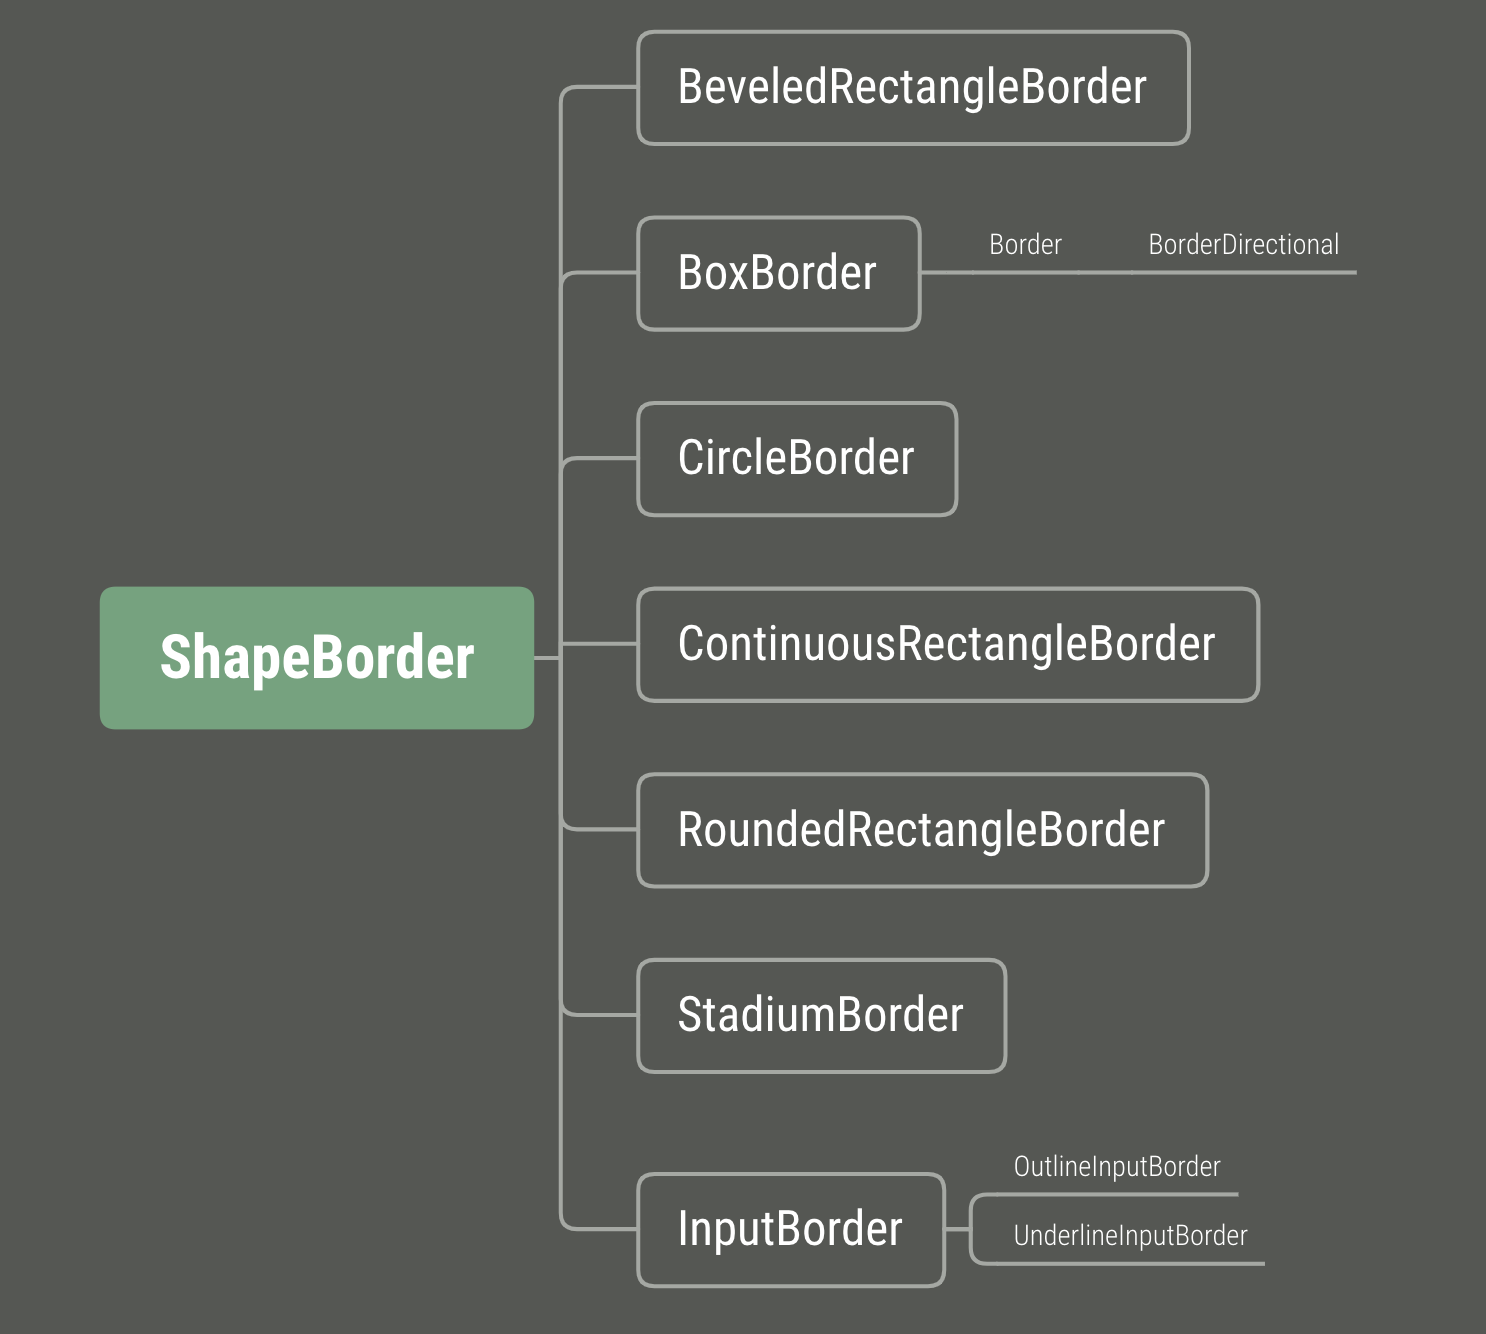
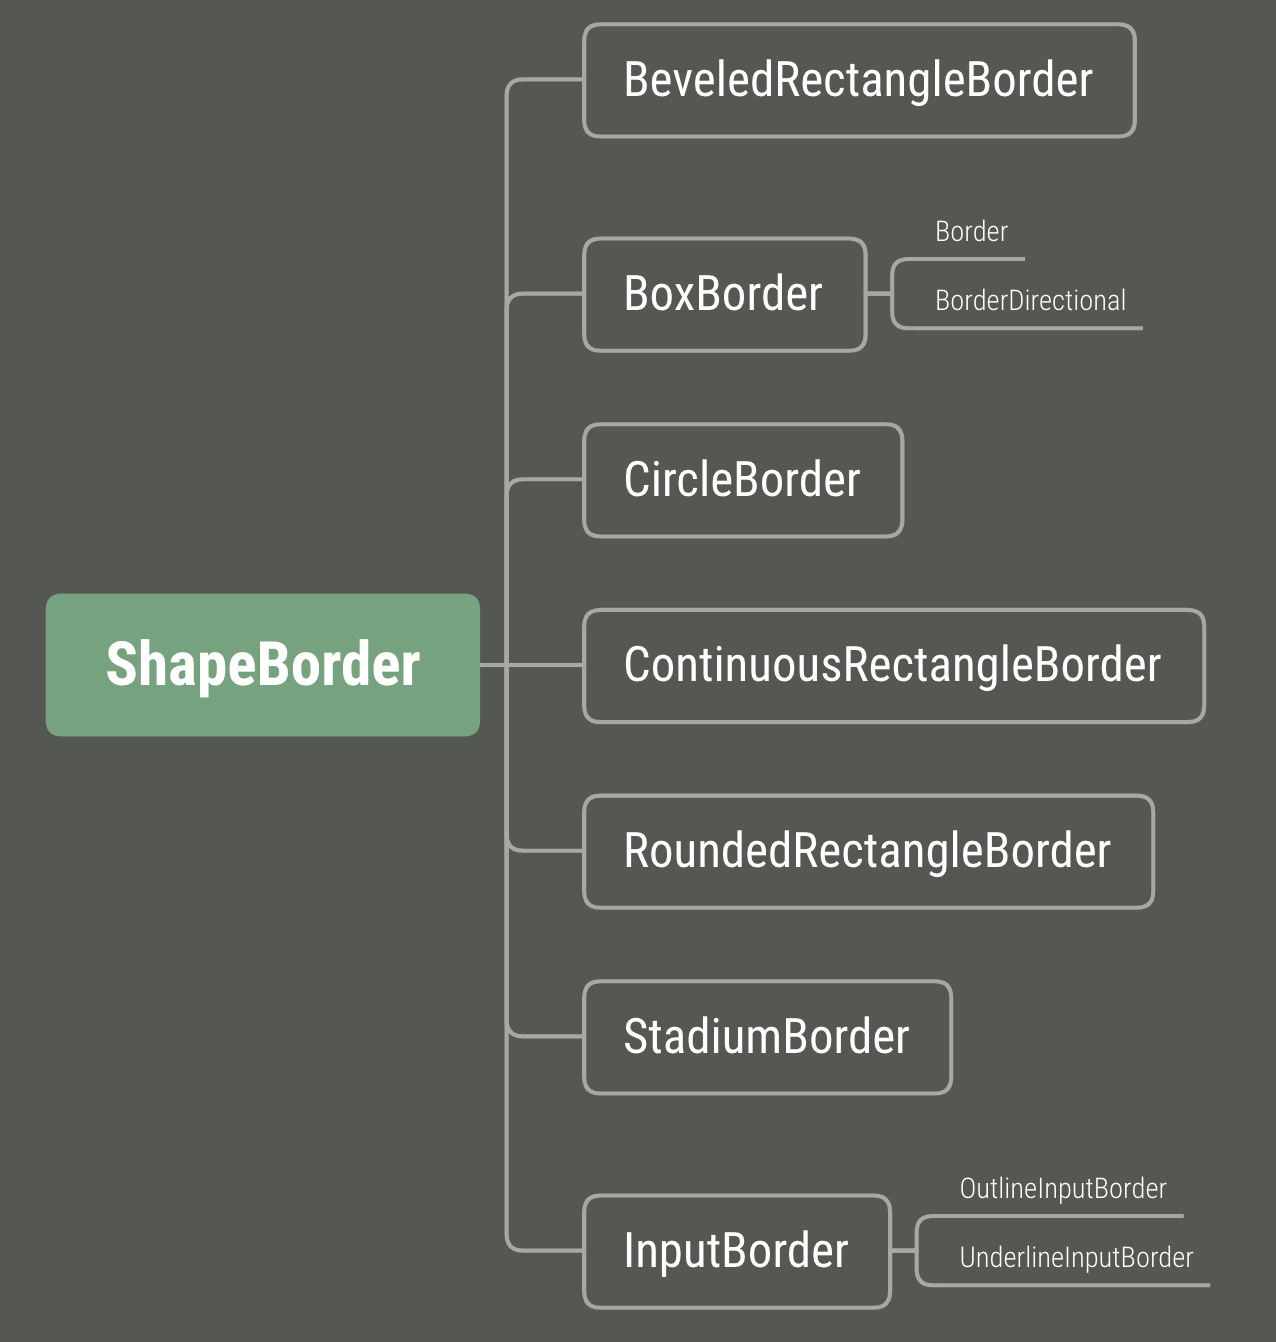
Site updated: 2020-07-12 22:45:13

diff --git a/posts/c5552f91/index.html b/posts/c5552f91/index.html
@@ -79,16 +79,17 @@
 
 
 
-<meta name="description" content="简介ShapeBorder 用于设置形状和轮廓，比如圆形，矩形，圆角矩形等。常用于 Container 中。 继承结构如下：  ShapeBorder【abstract】 BeveledRectangleBorder BoxBorder【abstract】 Border【abstract】 BorderDirectional     CircleBorder ContinuousRectangle">
+<meta name="description" content="简介ShapeBorder 用于设置形状和轮廓，比如圆形，矩形，圆角矩形等。常用于 Container 中。 继承结构如下：  ShapeBorder【abstract】 BeveledRectangleBorder BoxBorder【abstract】 Border BorderDirectional   CircleBorder ContinuousRectangleBorder Round">
 <meta name="keywords" content="效率">
 <meta property="og:type" content="article">
 <meta property="og:title" content="Flutter ShapeBorder 使用手册">
 <meta property="og:url" content="https://blog.wangruofeng007.com/posts/c5552f91/index.html">
 <meta property="og:site_name" content="王若风的技术博客">
-<meta property="og:description" content="简介ShapeBorder 用于设置形状和轮廓，比如圆形，矩形，圆角矩形等。常用于 Container 中。 继承结构如下：  ShapeBorder【abstract】 BeveledRectangleBorder BoxBorder【abstract】 Border【abstract】 BorderDirectional     CircleBorder ContinuousRectangle">
+<meta property="og:description" content="简介ShapeBorder 用于设置形状和轮廓，比如圆形，矩形，圆角矩形等。常用于 Container 中。 继承结构如下：  ShapeBorder【abstract】 BeveledRectangleBorder BoxBorder【abstract】 Border BorderDirectional   CircleBorder ContinuousRectangleBorder Round">
 <meta property="og:locale" content="zh-Hans">
 <meta property="og:image" content="https://blog.wangruofeng007.com/images/flutter_shape_border/ShapeBorder子类继承关系图.png">
 <meta property="og:image" content="https://blog.wangruofeng007.com/images/flutter_shape_border/beveled_rectangle_border.png">
+<meta property="og:image" content="https://blog.wangruofeng007.com/images/flutter_shape_border/border.png">
 <meta property="og:image" content="https://blog.wangruofeng007.com/images/flutter_shape_border/border_directional_01.png">
 <meta property="og:image" content="https://blog.wangruofeng007.com/images/flutter_shape_border/border_directional_02.png">
 <meta property="og:image" content="https://blog.wangruofeng007.com/images/flutter_shape_border/circle_border_01.jpg">
@@ -99,10 +100,10 @@
 <meta property="og:image" content="https://blog.wangruofeng007.com/images/flutter_shape_border/stadiu_border_01.png">
 <meta property="og:image" content="https://blog.wangruofeng007.com/images/flutter_shape_border/outlineInput_borde.png">
 <meta property="og:image" content="https://blog.wangruofeng007.com/images/flutter_shape_border/underlineInput_border.png">
-<meta property="og:updated_time" content="2020-07-12T11:16:16.320Z">
+<meta property="og:updated_time" content="2020-07-12T14:43:15.985Z">
 <meta name="twitter:card" content="summary">
 <meta name="twitter:title" content="Flutter ShapeBorder 使用手册">
-<meta name="twitter:description" content="简介ShapeBorder 用于设置形状和轮廓，比如圆形，矩形，圆角矩形等。常用于 Container 中。 继承结构如下：  ShapeBorder【abstract】 BeveledRectangleBorder BoxBorder【abstract】 Border【abstract】 BorderDirectional     CircleBorder ContinuousRectangle">
+<meta name="twitter:description" content="简介ShapeBorder 用于设置形状和轮廓，比如圆形，矩形，圆角矩形等。常用于 Container 中。 继承结构如下：  ShapeBorder【abstract】 BeveledRectangleBorder BoxBorder【abstract】 Border BorderDirectional   CircleBorder ContinuousRectangleBorder Round">
 <meta name="twitter:image" content="https://blog.wangruofeng007.com/images/flutter_shape_border/ShapeBorder子类继承关系图.png">
 
 
@@ -402,7 +403,7 @@
                   <span class="post-meta-item-text">字数统计&#58;</span>
                 
                 <span title="字数统计">
-                  850
+                  932
                 </span>
               
 
@@ -418,7 +419,7 @@
                   <span class="post-meta-item-text">阅读时长 &asymp;</span>
                 
                 <span title="阅读时长">
-                  4
+                  5
                 </span>
               
             </div>
@@ -445,10 +446,8 @@
 <li>ShapeBorder【abstract】<ul>
 <li>BeveledRectangleBorder</li>
 <li>BoxBorder【abstract】<ul>
-<li>Border【abstract】<ul>
+<li>Border</li>
 <li>BorderDirectional</li>
-</ul>
-</li>
 </ul>
 </li>
 <li>CircleBorder</li>
@@ -463,7 +462,7 @@
 </ul>
 </li>
 </ul>
-<p>其中 ShapeBorder、BoxBorder、Border、InputBorder 是抽象父类。InputBorder 通常用于输入框相关的。</p>
+<p>其中 ShapeBorder、BoxBorder、InputBorder 是抽象父类。InputBorder 通常用于输入框相关的。</p>
 <p>类的关系图</p>
 <p><img src="/images/flutter_shape_border/ShapeBorder子类继承关系图.png" alt="ShapeBorder子类继承关系图"></p>
 <h2 id="BeveledRectangleBorder"><a href="#BeveledRectangleBorder" class="headerlink" title="BeveledRectangleBorder"></a>BeveledRectangleBorder</h2><p>斜面圆角矩形</p>
@@ -472,17 +471,22 @@
 <figure class="highlight dart"><table><tr><td class="gutter"><pre><span class="line">1</span><br><span class="line">2</span><br><span class="line">3</span><br><span class="line">4</span><br><span class="line">5</span><br><span class="line">6</span><br><span class="line">7</span><br><span class="line">8</span><br><span class="line">9</span><br><span class="line">10</span><br><span class="line">11</span><br><span class="line">12</span><br><span class="line">13</span><br><span class="line">14</span><br><span class="line">15</span><br><span class="line">16</span><br><span class="line">17</span><br><span class="line">18</span><br><span class="line">19</span><br><span class="line">20</span><br><span class="line">21</span><br><span class="line">22</span><br><span class="line">23</span><br></pre></td><td class="code"><pre><span class="line">Widget _beveledRectangleBorder() &#123;</span><br><span class="line">  <span class="keyword">return</span> Center(</span><br><span class="line">    child: Container(</span><br><span class="line">      width: <span class="number">240</span>,</span><br><span class="line">      height: <span class="number">120</span>,</span><br><span class="line">      margin: EdgeInsets.all(<span class="number">16</span>),</span><br><span class="line">      decoration: ShapeDecoration(</span><br><span class="line">        image: DecorationImage(</span><br><span class="line">          image: AssetImage(<span class="string">'lib/assets/img_flutter.png'</span>),</span><br><span class="line">          fit: BoxFit.cover,</span><br><span class="line">        ),</span><br><span class="line">        shape: BeveledRectangleBorder(</span><br><span class="line">          borderRadius: BorderRadius.circular(<span class="number">20</span>),</span><br><span class="line">          side: BorderSide(</span><br><span class="line">            width: <span class="number">2</span>,</span><br><span class="line">            color: Colors.blue,</span><br><span class="line">            style: BorderStyle.solid,</span><br><span class="line">          ),</span><br><span class="line">        ),</span><br><span class="line">      ),</span><br><span class="line">    ),</span><br><span class="line">  );</span><br><span class="line">&#125;</span><br></pre></td></tr></table></figure>
 <p>效果如下：</p>
 <p><img src="/images/flutter_shape_border/beveled_rectangle_border.png" alt="beveled_rectangle_border"></p>
-<h2 id="BoxBorder-amp-Border"><a href="#BoxBorder-amp-Border" class="headerlink" title="BoxBorder &amp; Border"></a>BoxBorder &amp; Border</h2><p>这个2个类都是抽象类</p>
+<h2 id="BoxBorder"><a href="#BoxBorder" class="headerlink" title="BoxBorder"></a>BoxBorder</h2><p>BoxBorder主要掌管边线方面的事，自身是abstract，不能直接用</p>
 <p>BoxBorder官方说明</p>
 <blockquote>
 <p> Base class for box borders that can paint as rectangles, circles, or rounded rectangles.</p>
 </blockquote>
+<h3 id="Border"><a href="#Border" class="headerlink" title="Border"></a>Border</h3><p>继承关系:</p>
+<p><code>Border &gt; BoxBorder &gt; ShapeBorder</code></p>
 <p>Border官方说明</p>
 <blockquote>
 <p>A border of a box, comprised of four sides: top, right, bottom, left.</p>
 </blockquote>
+<figure class="highlight dart"><table><tr><td class="gutter"><pre><span class="line">1</span><br><span class="line">2</span><br><span class="line">3</span><br><span class="line">4</span><br><span class="line">5</span><br><span class="line">6</span><br><span class="line">7</span><br><span class="line">8</span><br><span class="line">9</span><br><span class="line">10</span><br><span class="line">11</span><br><span class="line">12</span><br><span class="line">13</span><br><span class="line">14</span><br><span class="line">15</span><br><span class="line">16</span><br><span class="line">17</span><br><span class="line">18</span><br><span class="line">19</span><br><span class="line">20</span><br><span class="line">21</span><br></pre></td><td class="code"><pre><span class="line">Widget _border() &#123;</span><br><span class="line">  <span class="keyword">return</span> Center(</span><br><span class="line">    child: Container(</span><br><span class="line">      margin: EdgeInsets.all(<span class="number">16</span>),</span><br><span class="line">      padding: EdgeInsets.all(<span class="number">16</span>),</span><br><span class="line">      decoration: ShapeDecoration(</span><br><span class="line">        color: Colors.orange,</span><br><span class="line">        shape: Border(</span><br><span class="line">          top: BorderSide(width: <span class="number">6.0</span>, color: Colors.black12),</span><br><span class="line">          left: BorderSide(width: <span class="number">6.0</span>, color: Colors.black12),</span><br><span class="line">          right: BorderSide(width: <span class="number">6.0</span>, color: Colors.black26),</span><br><span class="line">          bottom: BorderSide(width: <span class="number">6.0</span>, color: Colors.black26),</span><br><span class="line">        ),</span><br><span class="line">      ),</span><br><span class="line">      child: Text(</span><br><span class="line">        <span class="string">"Border"</span>,</span><br><span class="line">        style: TextStyle(color: Colors.white, fontSize: <span class="number">20</span>),</span><br><span class="line">      ),</span><br><span class="line">    ),</span><br><span class="line">  );</span><br><span class="line">&#125;</span><br></pre></td></tr></table></figure>
+<p>效果图：</p>
+<p><img src="/images/flutter_shape_border/border.png" alt="border"></p>
 <h3 id="BorderDirectional"><a href="#BorderDirectional" class="headerlink" title="BorderDirectional"></a>BorderDirectional</h3><p>继承关系:</p>
-<p> <code>BorderDirectional &gt; Border &gt; BoxBorder &gt; ShapeBorder</code></p>
+<p> <code>BorderDirectional &gt; BoxBorder &gt; ShapeBorder</code></p>
 <p><code>BorderDirectional</code> 通过 <code>top</code>,<code>bottom</code>,<code>start</code>,<code>end</code>分别控制上下左右的边线<br>边线对象<code>BorderSide</code></p>
 <figure class="highlight dart"><table><tr><td class="gutter"><pre><span class="line">1</span><br><span class="line">2</span><br><span class="line">3</span><br><span class="line">4</span><br><span class="line">5</span><br><span class="line">6</span><br><span class="line">7</span><br><span class="line">8</span><br><span class="line">9</span><br><span class="line">10</span><br><span class="line">11</span><br><span class="line">12</span><br><span class="line">13</span><br><span class="line">14</span><br><span class="line">15</span><br><span class="line">16</span><br><span class="line">17</span><br><span class="line">18</span><br><span class="line">19</span><br><span class="line">20</span><br><span class="line">21</span><br><span class="line">22</span><br><span class="line">23</span><br><span class="line">24</span><br><span class="line">25</span><br></pre></td><td class="code"><pre><span class="line">Widget _borderDirectional() &#123;</span><br><span class="line">  <span class="keyword">return</span> Center(</span><br><span class="line">    child: Container(</span><br><span class="line">      width: <span class="number">240</span>,</span><br><span class="line">      height: <span class="number">120</span>,</span><br><span class="line">      margin: EdgeInsets.all(<span class="number">16</span>),</span><br><span class="line">      decoration: ShapeDecoration(</span><br><span class="line">        image: DecorationImage(</span><br><span class="line">          image: AssetImage(<span class="string">'lib/assets/img_flutter.png'</span>),</span><br><span class="line">          fit: BoxFit.cover,</span><br><span class="line">        ),</span><br><span class="line">        shape: BorderDirectional(</span><br><span class="line">          start: BorderSide(color: Colors.black, width: <span class="number">15</span>),</span><br><span class="line">          end: BorderSide(color: Colors.black, width: <span class="number">15</span>),</span><br><span class="line">          top: BorderSide(</span><br><span class="line">            color: Colors.black,</span><br><span class="line">          ),</span><br><span class="line">          bottom: BorderSide(</span><br><span class="line">            color: Colors.black,</span><br><span class="line">          ),</span><br><span class="line">        ),</span><br><span class="line">      ),</span><br><span class="line">    ),</span><br><span class="line">  );</span><br><span class="line">&#125;</span><br></pre></td></tr></table></figure>
 <p>效果如下：</p>
@@ -767,7 +771,7 @@
             
 
             
-              <div class="post-toc-content"><ol class="nav"><li class="nav-item nav-level-2"><a class="nav-link" href="#简介"><span class="nav-number">1.</span> <span class="nav-text">简介</span></a></li><li class="nav-item nav-level-2"><a class="nav-link" href="#BeveledRectangleBorder"><span class="nav-number">2.</span> <span class="nav-text">BeveledRectangleBorder</span></a></li><li class="nav-item nav-level-2"><a class="nav-link" href="#BoxBorder-amp-Border"><span class="nav-number">3.</span> <span class="nav-text">BoxBorder &amp; Border</span></a><ol class="nav-child"><li class="nav-item nav-level-3"><a class="nav-link" href="#BorderDirectional"><span class="nav-number">3.1.</span> <span class="nav-text">BorderDirectional</span></a></li></ol></li><li class="nav-item nav-level-2"><a class="nav-link" href="#CircleBorder"><span class="nav-number">4.</span> <span class="nav-text">CircleBorder</span></a></li><li class="nav-item nav-level-2"><a class="nav-link" href="#ContinuousRectangleBorder"><span class="nav-number">5.</span> <span class="nav-text">ContinuousRectangleBorder</span></a></li><li class="nav-item nav-level-2"><a class="nav-link" href="#RoundedRectangleBorder"><span class="nav-number">6.</span> <span class="nav-text">RoundedRectangleBorder</span></a></li><li class="nav-item nav-level-2"><a class="nav-link" href="#StadiumBorder"><span class="nav-number">7.</span> <span class="nav-text">StadiumBorder</span></a></li><li class="nav-item nav-level-2"><a class="nav-link" href="#InputBorder"><span class="nav-number">8.</span> <span class="nav-text">InputBorder</span></a><ol class="nav-child"><li class="nav-item nav-level-3"><a class="nav-link" href="#OutlineInputBorder"><span class="nav-number">8.1.</span> <span class="nav-text">OutlineInputBorder</span></a></li><li class="nav-item nav-level-3"><a class="nav-link" href="#UnderlineInputBorder"><span class="nav-number">8.2.</span> <span class="nav-text">UnderlineInputBorder</span></a></li></ol></li></ol></div>
+              <div class="post-toc-content"><ol class="nav"><li class="nav-item nav-level-2"><a class="nav-link" href="#简介"><span class="nav-number">1.</span> <span class="nav-text">简介</span></a></li><li class="nav-item nav-level-2"><a class="nav-link" href="#BeveledRectangleBorder"><span class="nav-number">2.</span> <span class="nav-text">BeveledRectangleBorder</span></a></li><li class="nav-item nav-level-2"><a class="nav-link" href="#BoxBorder"><span class="nav-number">3.</span> <span class="nav-text">BoxBorder</span></a><ol class="nav-child"><li class="nav-item nav-level-3"><a class="nav-link" href="#Border"><span class="nav-number">3.1.</span> <span class="nav-text">Border</span></a></li><li class="nav-item nav-level-3"><a class="nav-link" href="#BorderDirectional"><span class="nav-number">3.2.</span> <span class="nav-text">BorderDirectional</span></a></li></ol></li><li class="nav-item nav-level-2"><a class="nav-link" href="#CircleBorder"><span class="nav-number">4.</span> <span class="nav-text">CircleBorder</span></a></li><li class="nav-item nav-level-2"><a class="nav-link" href="#ContinuousRectangleBorder"><span class="nav-number">5.</span> <span class="nav-text">ContinuousRectangleBorder</span></a></li><li class="nav-item nav-level-2"><a class="nav-link" href="#RoundedRectangleBorder"><span class="nav-number">6.</span> <span class="nav-text">RoundedRectangleBorder</span></a></li><li class="nav-item nav-level-2"><a class="nav-link" href="#StadiumBorder"><span class="nav-number">7.</span> <span class="nav-text">StadiumBorder</span></a></li><li class="nav-item nav-level-2"><a class="nav-link" href="#InputBorder"><span class="nav-number">8.</span> <span class="nav-text">InputBorder</span></a><ol class="nav-child"><li class="nav-item nav-level-3"><a class="nav-link" href="#OutlineInputBorder"><span class="nav-number">8.1.</span> <span class="nav-text">OutlineInputBorder</span></a></li><li class="nav-item nav-level-3"><a class="nav-link" href="#UnderlineInputBorder"><span class="nav-number">8.2.</span> <span class="nav-text">UnderlineInputBorder</span></a></li></ol></li></ol></div>
             
 
           </div>

diff --git a/index.html b/index.html
@@ -391,7 +391,7 @@
                   <span class="post-meta-item-text">字数统计&#58;</span>
                 
                 <span title="字数统计">
-                  850
+                  932
                 </span>
               
 
@@ -407,7 +407,7 @@
                   <span class="post-meta-item-text">阅读时长 &asymp;</span>
                 
                 <span title="阅读时长">
-                  4
+                  5
                 </span>
               
             </div>
